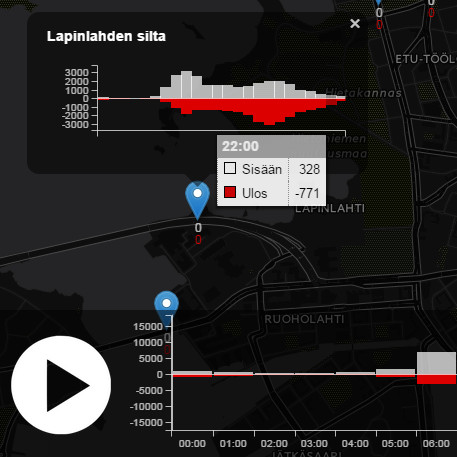
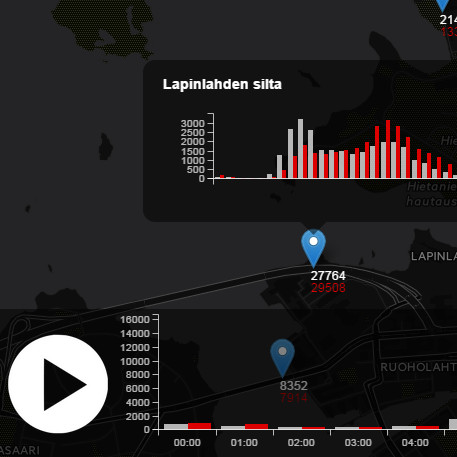
Don't negate outbound traffic

diff --git a/hkiliikenne/index.html b/hkiliikenne/index.html
@@ -633,9 +633,10 @@
 
           var outboundData = data[name].outbound.hourly.slice();
           //Negate outbound data
+          /*
           for(var i=0; i<outboundData.length; i++) {
             outboundData[i] *= -1;
-          }
+          }*/
           outboundData.unshift('Ulos');
           
           var chart = c3.generate(
@@ -669,14 +670,11 @@
                 Sisään: 'y',
                 Ulos: 'y'
               },
-              type: 'bar',
-              groups: [
-                ['Sisään', 'Ulos']
-              ]
+              type: 'bar'
             },
             bar: {
               width:{
-                ratio: 0.95
+                ratio: 0.8
               }
             },
             grid: {
